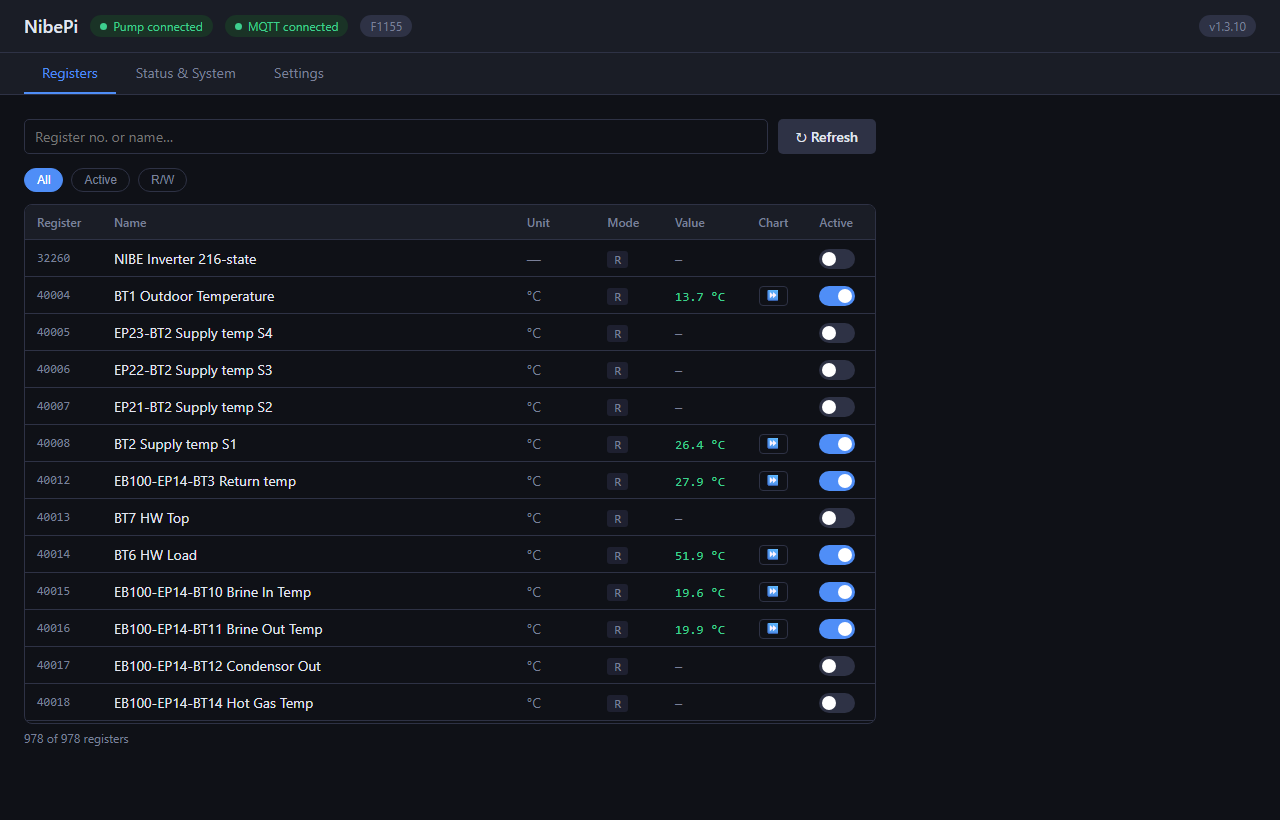
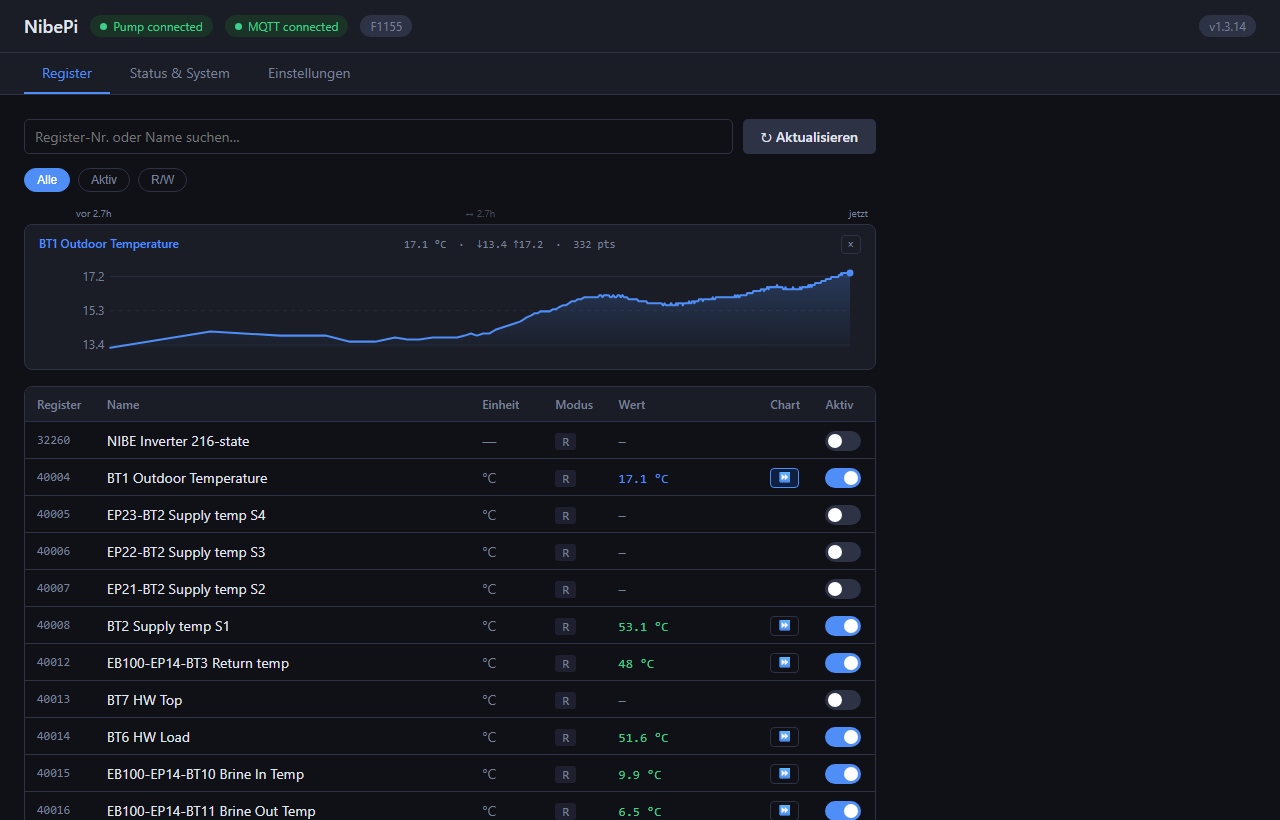
docs: update README and screenshots for v1.3.14
- New screenshots showing register chart with tooltip, memory chart with
  hover tooltip (bridge + backend), and settings tab
- Add register history charts and interactive tooltip to feature list
- Document improved write editor (dropdowns, validation, units)
- Document memory chart tooltip and alarm history in Status tab section
- Minor wording cleanup throughout

diff --git a/README.md b/README.md
@@ -16,14 +16,15 @@ The original project used Node-RED and a custom Pi image. This fork replaces all
 - **Browser config UI** — dark-themed, responsive, served directly from bridge.js on port 1880
 - **19 UI languages** — English, German, French, Spanish, Italian, Dutch, Portuguese, Swedish, Norwegian, Danish, Finnish, Polish, Czech, Slovak, Slovenian, Croatian, Romanian, Hungarian, Greek
 - **Home Assistant MQTT Discovery** — sensors, numbers, switches, and selects created automatically
-- **Register write from UI** — R/W registers have an inline edit button; state-map registers show a dropdown
+- **Register history charts** — up to 360 data points per register with adaptive downsampling; hover or tap to show a crosshair and tooltip with exact value and age
+- **Register write from UI** — R/W registers show an inline editor with type-appropriate controls: dropdown for state maps, validated number input with unit label and min/max from the pump model
 - **OTA updates** — check for and install new releases directly from the Status tab
 - **Alarm display & history** — active alarm shown in header and status panel; full history of up to 50 past alarms in Status tab
 - **Config backup/restore** — export config.json with one click; restore by uploading a previously exported file
 - **MQTT TLS** — optional encrypted connection to the broker (port 8883); custom CA cert path supported
 - **Web UI authentication** — optional HTTP Basic Auth; set your own username and password in Settings → Authentication before enabling
 - **Live log streaming** — tail the bridge log in real time from the browser
-- **Memory usage chart** — bridge + backend RSS sampled hourly, displayed as a 2-week sparkline
+- **Memory usage chart** — bridge + backend RSS sampled hourly, displayed as a 2-week sparkline with hover tooltip
 - **SD card protection** — read-only root filesystem with tmpfs for `/tmp` and `/var/log`; remounts rw only when saving settings
 - **Graceful restarts** — zombie mode keeps the pump connected during service restarts and OTA updates
 - **Hardware watchdog** — Pi auto-reboots if the bridge hangs
@@ -140,18 +141,20 @@ The script handles everything automatically:
 
 Total time: ~10 minutes, no further input required.
 
-### 4. Enable Modbus on the pump
+### 3. Enable Modbus on the pump
 
 1. Hold the **Back** button for ~7 seconds to open the service menu.
 2. Navigate to **System Settings 5.2**.
 3. Scroll down and enable **Modbus**.
 4. The pump may show a brief red alarm while NibePi finishes booting — this is normal.
 
-### 5. Open the config UI
+### 4. Open the config UI
 
 ```
 http://nibepi:1880
 ```
+
+On a fresh install with no existing config, the bridge automatically opens a 5-step setup wizard.
 
 ---
 
@@ -207,13 +210,24 @@ The pump model is detected automatically on first connection and saved to config
 
 Browse or search all registers for your pump model. Toggle individual registers on to start polling them. Active registers are polled continuously and their live values are shown in the table.
 
+Click the chart button (📊) on any active register to open a history sparkline. The chart keeps up to 360 samples with adaptive downsampling — recent data at 10 s resolution, older data thinned proportionally. Hover or tap anywhere on the chart to show a crosshair and tooltip with the exact value and sample age.
+
+R/W registers have an edit button. The editor adapts to the register type:
+- State map registers show a **dropdown** with labelled options
+- Numeric registers show a **number input** with the unit appended, pre-filled min/max bounds from the pump model, and inline validation
+
 ### Status & System tab
 
 | Control | Description |
 |---|---|
+| System Status | Pump model, firmware version, MQTT state, filesystem mode |
+| Alarm history | Up to 50 past alarms with start and end timestamps |
+| Memory chart | Bridge + backend RSS sampled hourly, last 2 weeks; hover or tap to inspect individual samples |
 | Filesystem mode | Toggle root filesystem between read-only (normal) and read-write (for manual edits) |
 | Log / Debug | Enable verbose logging and raw Modbus frame output |
-| Restart | Restart the bridge service (uses graceful zombie handover — pump stays connected) |
+| Restart | Restart the bridge service (graceful zombie handover — pump stays connected) |
+| Software | Check for updates and install new releases OTA |
+| Config | Export config to file or restore from a backup |
 | Live log | Streams the last 500 log lines in real time |
 
 ---
@@ -242,7 +256,7 @@ nibe/modbus/<register>/raw    ← raw scaled value
 
 ---
 
-## First-time setup
+## First-time setup wizard
 
 On a fresh install (no existing `/etc/nibepi/config.json`), the bridge automatically redirects to a 5-step setup wizard at `http://nibepi:1880/setup`:
 
